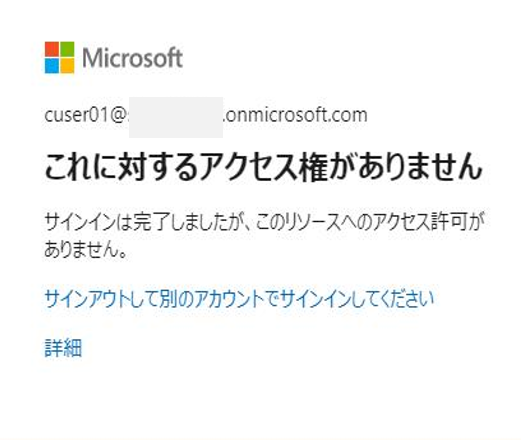
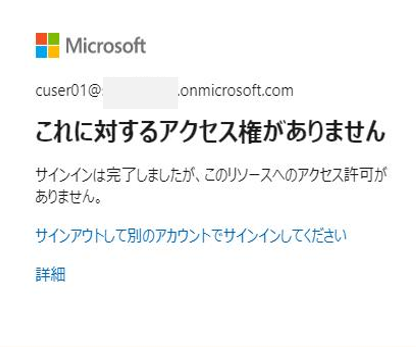
[fix] 画像の大きさとimgタグ変更 [update] README

diff --git a/README.md b/README.md
@@ -71,6 +71,7 @@
 - [Hybrid Azure AD Join 失敗時の初動調査方法について (マネージド編)](./articles/azure-active-directory/troubleshoot-hybrid-azure-ad-join-managed.md)
 - [Hybrid Azure AD Join 失敗の初動調査方法について (フェデレーション編)](./articles/azure-active-directory/troubleshoot-hybrid-azure-ad-join-federated.md)
 - [Identity Protection 2 つのリスク ポリシーの導入メリットについて](./articles/azure-active-directory/identity-protection-riskpolicy-introducation.md)
+- [「現時点ではこれにはアクセスできません」 エラーについて](articles/azure-active-directory/conditional-cannot-access-rightnow.md)
 
 ## Azure AD Connect
 
